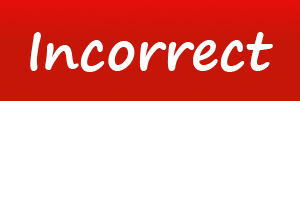
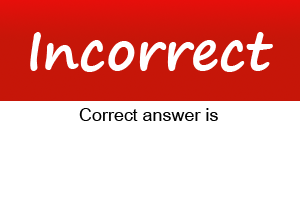
All UI Changes done

Changed region(s): [[0.24, 0.54, 0.75, 0.63]]

diff --git a/source/LevelScreen.java b/source/LevelScreen.java
@@ -28,13 +28,14 @@ public class LevelScreen extends Screen
     
     private void showLevelScreen()
     {
-        GreenfootImage levelScreenBackground = new GreenfootImage("./images/GrassTexture.png");
+        GreenfootImage levelScreenBackground = new GreenfootImage("./images/level4.png");
         levelScreenBackground.scale(1020, 640);
         this.adroitTutorWorld.setBackground(levelScreenBackground);
         
         for(int i=0;i < Level.Difficulty.values().length;i++)
         {
             Option option = new Option(Level.Difficulty.values()[i].toString(),("./images/"+Level.Difficulty.values()[i].toString()+"Option.png"));
+//            Option option = new Option(Level.Difficulty.values()[i].toString(),("./images/Easy2.png"));
             this.adroitTutorWorld.addObject(option, 500, 250 + (i * 100));
             option.setOptionSelectedListener(this.adroitTutorWorld);
         }

diff --git a/source/GameOverScreen.java b/source/GameOverScreen.java
@@ -29,8 +29,8 @@ public class GameOverScreen extends Screen
     
     private void showGameOverScreen(){
        this.adroitTutorWorld.removeObjects(this.adroitTutorWorld.getObjects(null));
-       GreenfootImage greenfootImage = new GreenfootImage("./images/GameOver.jpeg");
-       greenfootImage.scale(1100,600);
+       GreenfootImage greenfootImage = new GreenfootImage("./images/GameOver.png");
+       greenfootImage.scale(990,610);
        this.adroitTutorWorld.setBackground(greenfootImage);
        Greenfoot.delay(125);
        this.adroitTutorWorld.setBackground("./images/largeTransparent.gif");

diff --git a/source/GameEngine.java b/source/GameEngine.java
@@ -111,7 +111,7 @@ public class GameEngine implements Observer
         Option incorrectAnswer = new Option("Correct","./images/IncorrectAnswer.png");
         Option correctAnswer = new Option(questionSetIterator.currentQuestion().getCorrectAnswer());
         this.adroitTutorWorld.addObject(incorrectAnswer, 500, 250);
-        this.adroitTutorWorld.addObject(correctAnswer, 510, 300);
+        this.adroitTutorWorld.addObject(correctAnswer, 500, 300);
         
         Greenfoot.delay(125);
         this.adroitTutorWorld.removeObject(incorrectAnswer);

diff --git a/source/AdroitTutorWorld.java b/source/AdroitTutorWorld.java
@@ -35,7 +35,7 @@ public class AdroitTutorWorld extends World implements OnOptionSelectedListener,
     private void prepare()
     {
         final WelcomeScreen screen1 = new WelcomeScreen();
-        GreenfootImage welcomeBackground = new GreenfootImage("./images/GrassTexture.png");
+        GreenfootImage welcomeBackground = new GreenfootImage("./images/WelcomeScreen.png");
         welcomeBackground.scale(1020, 640);
         screen1.setImage(welcomeBackground);
         
